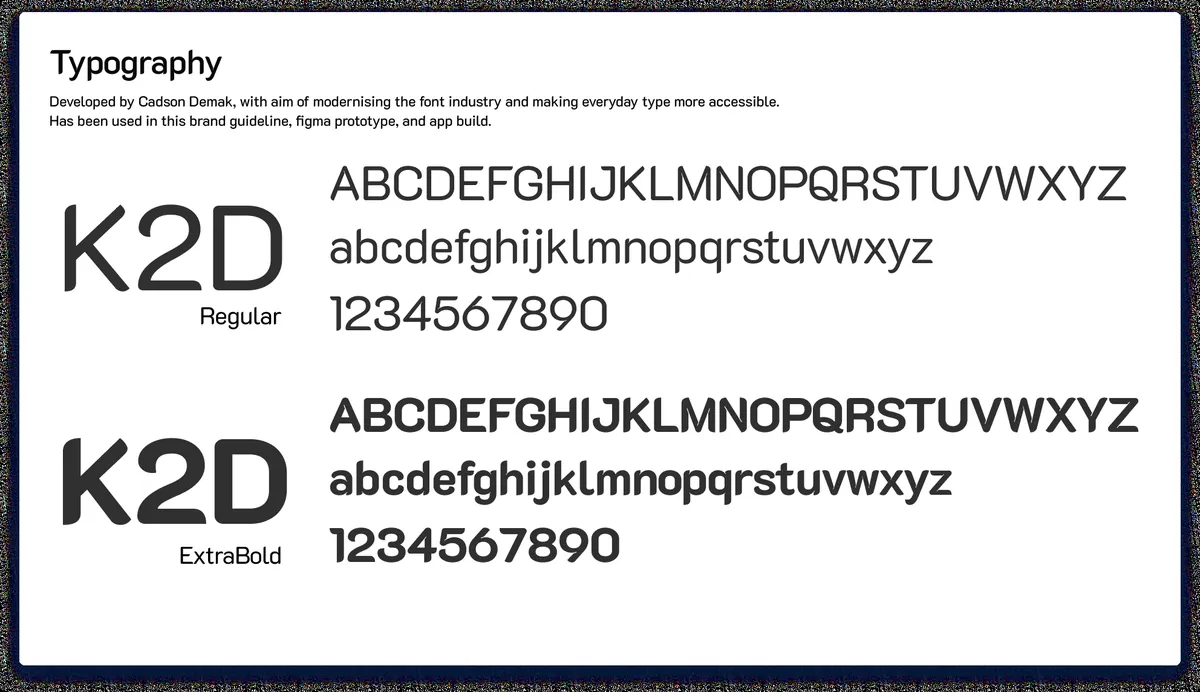
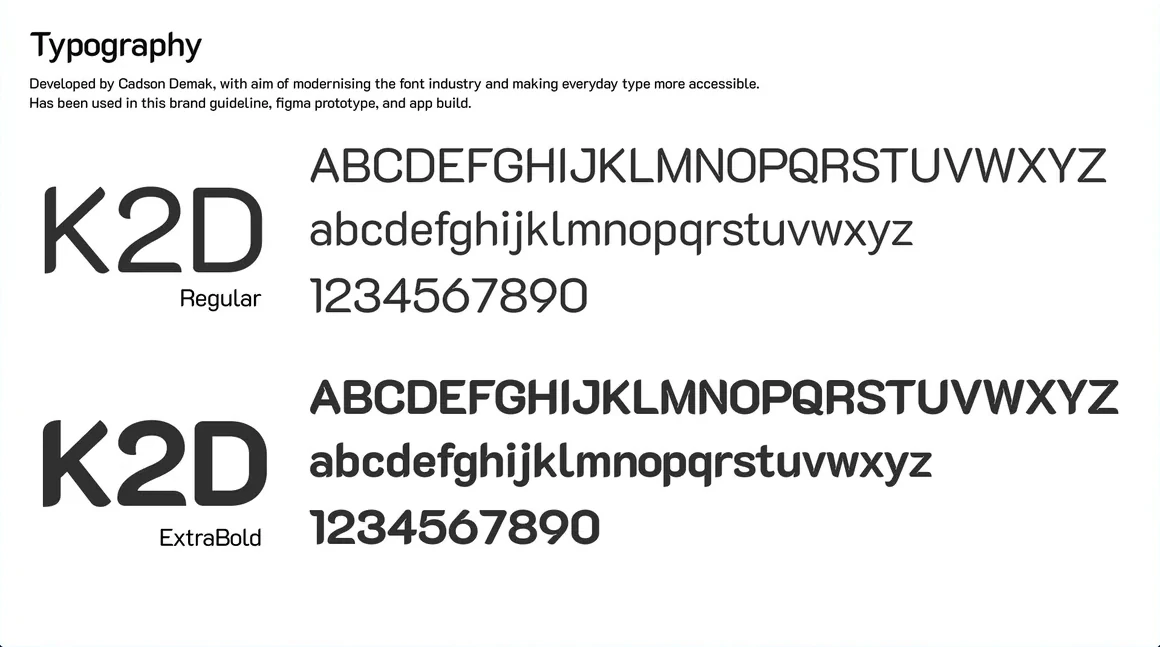
Click-to-enlarge lightbox for zoomable figures
Opens the image or clip full size with caption, prev/next, counter,
Esc/arrow keys and focus trapping. Also trims the noisy frame off the
palette, type and logo images so they hold up when enlarged.

Claude-Session: https://claude.ai/code/session_011oRArHcDhwaLahqJbfusqa

Changed region(s): [[0.0, 0.0, 1.0, 1.0]]

diff --git a/assets/lightbox.js b/assets/lightbox.js
@@ -1,0 +1,115 @@
+// 사진·영상을 누르면 화면 가운데에 크게 띄워 보는 라이트박스
+(function () {
+  var items = Array.prototype.slice.call(
+    document.querySelectorAll('.zoom figure img, .zoom figure video, figure.zoom > img')
+  );
+  if (!items.length) return;
+
+  var reduce = window.matchMedia && window.matchMedia('(prefers-reduced-motion: reduce)').matches;
+  var box = document.createElement('div');
+  box.className = 'lb';
+  box.hidden = true;
+  box.setAttribute('role', 'dialog');
+  box.setAttribute('aria-modal', 'true');
+  box.setAttribute('aria-label', '크게 보기');
+  box.innerHTML =
+    '<span class="lb-count" aria-live="polite"></span>' +
+    '<button type="button" class="lb-btn lb-close" aria-label="닫기"><svg viewBox="0 0 20 20" fill="none" stroke="currentColor" stroke-width="2"><path d="M5 5l10 10M15 5L5 15"/></svg></button>' +
+    '<button type="button" class="lb-btn lb-prev" aria-label="이전"><svg viewBox="0 0 20 20" fill="none" stroke="currentColor" stroke-width="2"><path d="M12.5 4l-6 6 6 6"/></svg></button>' +
+    '<button type="button" class="lb-btn lb-next" aria-label="다음"><svg viewBox="0 0 20 20" fill="none" stroke="currentColor" stroke-width="2"><path d="M7.5 4l6 6-6 6"/></svg></button>' +
+    '<div class="lb-stage"></div><p class="lb-cap"></p>';
+  document.body.appendChild(box);
+
+  var stage = box.querySelector('.lb-stage');
+  var cap = box.querySelector('.lb-cap');
+  var count = box.querySelector('.lb-count');
+  var closeBtn = box.querySelector('.lb-close');
+  var current = -1;
+  var lastFocus = null;
+
+  function captionOf(el) {
+    var fig = el.closest('figure');
+    var fc = fig && fig.querySelector('figcaption');
+    if (fc) {
+      var c = fc.cloneNode(true);
+      Array.prototype.forEach.call(c.querySelectorAll('.clip-tag'), function (t) { t.remove(); });
+      var txt = c.textContent.replace(/\s+/g, ' ').trim();
+      if (txt) return txt;
+    }
+    return el.getAttribute('alt') || el.getAttribute('aria-label') || '';
+  }
+
+  function render(i) {
+    current = (i + items.length) % items.length;
+    var src = items[current];
+    var media;
+    if (src.tagName === 'VIDEO') {
+      media = document.createElement('video');
+      media.src = src.currentSrc || src.getAttribute('src');
+      if (src.poster) media.poster = src.poster;
+      media.muted = true; media.loop = true; media.playsInline = true;
+      media.setAttribute('playsinline', '');
+      if (!reduce) { media.autoplay = true; } else { media.controls = true; }
+    } else {
+      media = document.createElement('img');
+      media.src = src.currentSrc || src.src;
+      media.alt = src.alt || '';
+    }
+    media.className = 'lb-media';
+    var bg = getComputedStyle(src).backgroundColor;
+    if (bg && bg !== 'rgba(0, 0, 0, 0)' && bg !== 'transparent') media.style.background = bg;
+    stage.innerHTML = '';
+    stage.appendChild(media);
+    if (media.tagName === 'VIDEO' && !reduce) { var p = media.play(); if (p && p.catch) p.catch(function () {}); }
+    cap.textContent = captionOf(src);
+    count.textContent = (current + 1) + ' / ' + items.length;
+  }
+
+  function open(i) {
+    lastFocus = document.activeElement;
+    render(i);
+    box.hidden = false;
+    document.documentElement.classList.add('lb-lock');
+    requestAnimationFrame(function () { box.classList.add('on'); });
+    closeBtn.focus();
+  }
+
+  function close() {
+    box.classList.remove('on');
+    document.documentElement.classList.remove('lb-lock');
+    var done = function () { box.hidden = true; stage.innerHTML = ''; };
+    if (reduce) done(); else setTimeout(done, 200);
+    if (lastFocus && lastFocus.focus) lastFocus.focus();
+  }
+
+  items.forEach(function (el, i) {
+    el.classList.add('lb-trigger');
+    el.setAttribute('tabindex', '0');
+    el.setAttribute('role', 'button');
+    if (!el.getAttribute('aria-label')) el.setAttribute('aria-label', (captionOf(el) || '이미지') + ' 크게 보기');
+    el.addEventListener('click', function (e) { e.preventDefault(); open(i); });
+    el.addEventListener('keydown', function (e) {
+      if (e.key === 'Enter' || e.key === ' ') { e.preventDefault(); open(i); }
+    });
+  });
+
+  closeBtn.addEventListener('click', close);
+  box.querySelector('.lb-prev').addEventListener('click', function () { render(current - 1); });
+  box.querySelector('.lb-next').addEventListener('click', function () { render(current + 1); });
+  box.addEventListener('click', function (e) {
+    if (e.target === box || e.target === stage) close();
+  });
+  document.addEventListener('keydown', function (e) {
+    if (box.hidden) return;
+    if (e.key === 'Escape') close();
+    else if (e.key === 'ArrowLeft') render(current - 1);
+    else if (e.key === 'ArrowRight') render(current + 1);
+    else if (e.key === 'Tab') {
+      // 포커스를 라이트박스 안에 가둠
+      var f = box.querySelectorAll('button');
+      var first = f[0], last = f[f.length - 1];
+      if (e.shiftKey && document.activeElement === first) { e.preventDefault(); last.focus(); }
+      else if (!e.shiftKey && document.activeElement === last) { e.preventDefault(); first.focus(); }
+    }
+  });
+})();

diff --git a/assets/style.css b/assets/style.css
@@ -215,3 +215,31 @@ footer a{color:#fff;font-weight:700;font-size:17px}
 .next .row a:hover{text-decoration:underline}
 .next .card{min-height:clamp(260px,24vw,320px)}
 .next .card > img{object-position:50% 25%}
+
+/* 클릭하면 크게 보기 (라이트박스) */
+.lb-trigger{cursor:zoom-in}
+.lb-trigger:focus-visible{outline:3px solid var(--blue);outline-offset:3px}
+.lb-lock,.lb-lock body{overflow:hidden}
+.lb{position:fixed;inset:0;z-index:100;display:flex;flex-direction:column;align-items:center;justify-content:center;gap:16px;padding:64px 80px 28px;background:rgba(10,12,16,.95);-webkit-backdrop-filter:blur(6px);backdrop-filter:blur(6px);opacity:0;transition:opacity .2s ease}
+.lb[hidden]{display:none}
+.lb.on{opacity:1}
+.lb-stage{display:flex;align-items:center;justify-content:center;min-height:0;max-width:100%}
+.lb-media{display:block;width:auto;height:auto;max-width:100%;max-height:calc(100vh - 170px);max-height:calc(100dvh - 170px);border-radius:12px;transform:scale(.96);transition:transform .25s ease}
+.lb.on .lb-media{transform:none}
+.lb-cap{max-width:46em;color:#fff;font-size:15px;line-height:1.55;text-align:center}
+.lb-count{position:absolute;top:24px;left:24px;color:rgba(255,255,255,.72);font-size:13px;font-weight:700;font-variant-numeric:tabular-nums}
+.lb-btn{position:absolute;display:grid;place-items:center;width:46px;height:46px;border:0;border-radius:50%;background:rgba(255,255,255,.14);color:#fff;cursor:pointer;transition:background .15s ease}
+.lb-btn:hover{background:rgba(255,255,255,.26)}
+.lb-btn:focus-visible{outline:3px solid #fff;outline-offset:2px}
+.lb-btn svg{width:20px;height:20px}
+.lb-close{top:14px;right:14px}
+.lb-prev{left:18px;top:50%;margin-top:-23px}
+.lb-next{right:18px;top:50%;margin-top:-23px}
+@media (max-width:760px){
+  .lb{padding:64px 12px 84px}
+  .lb-prev,.lb-next{top:auto;bottom:18px;margin-top:0}
+  .lb-prev{left:calc(50% - 58px)}
+  .lb-next{right:calc(50% - 58px)}
+  .lb-media{max-height:calc(100vh - 220px);max-height:calc(100dvh - 220px)}
+}
+@media (prefers-reduced-motion:reduce){.lb,.lb-media{transition:none}}

diff --git a/thryve.html b/thryve.html
@@ -88,9 +88,9 @@
             </table>
           </div>
           <div class="figs three zoom">
-            <figure class="frame"><img src="assets/thryve/palette.webp" alt="Thryve 컬러 팔레트: #81D8D0, #4D54D9, #B4B8C5, #000000" width="1200" height="692" loading="lazy"><figcaption>컬러 팔레트</figcaption></figure>
-            <figure class="frame"><img src="assets/thryve/fonts.webp" alt="Thryve 서체 K2D Regular, ExtraBold" width="1200" height="692" loading="lazy"><figcaption>서체 K2D</figcaption></figure>
-            <figure class="frame"><img src="assets/thryve/logos.webp" alt="T 형태를 단계적으로 바꿔 만든 Thryve 로고" width="1200" height="692" loading="lazy"><figcaption>로고 변형 과정</figcaption></figure>
+            <figure class="frame"><img src="assets/thryve/palette.webp" alt="Thryve 컬러 팔레트: #81D8D0, #4D54D9, #B4B8C5, #000000" width="1160" height="647" loading="lazy"><figcaption>컬러 팔레트</figcaption></figure>
+            <figure class="frame"><img src="assets/thryve/fonts.webp" alt="Thryve 서체 K2D Regular, ExtraBold" width="1160" height="647" loading="lazy"><figcaption>서체 K2D</figcaption></figure>
+            <figure class="frame"><img src="assets/thryve/logos.webp" alt="T 형태를 단계적으로 바꿔 만든 Thryve 로고" width="1160" height="647" loading="lazy"><figcaption>로고 변형 과정</figcaption></figure>
           </div>
         </div>
       </section>
@@ -180,5 +180,6 @@
     });
   }
 </script>
+<script src="assets/lightbox.js" defer></script>
 </body>
 </html>

diff --git a/budgetbills.html b/budgetbills.html
@@ -161,5 +161,6 @@
     });
   }
 </script>
+<script src="assets/lightbox.js" defer></script>
 </body>
 </html>

diff --git a/uoy.html b/uoy.html
@@ -179,5 +179,6 @@
     });
   }
 </script>
+<script src="assets/lightbox.js" defer></script>
 </body>
 </html>
